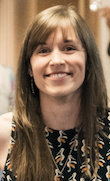
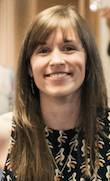
Add Friederike.

diff --git a/_people/friederike.md b/_people/friederike.md
@@ -1,0 +1,11 @@
+---
+first_name: Friederike
+last_name: Schlumm
+img: /assets/img/people/friederike.jpg
+email: first.last@imp.ac.at
+country: Germany
+member_from: April 2018
+member_till: now
+position: Technician
+---
+Friederike joined our lab recently as a technician in a Boehringer Ingelheim collaboration. She obtained her master's degree in neuroscience from the Ruprecht-Karls-University in Heidelberg, Germany (2006-2012). Her thesis focused on nuclear calcium signaling in neurons and its influence on gene expression. Then she moved from cell culture work to organismal research and joined the lab of Alipasha Vaziri at the IMP in Vienna as a PhD student, where she was working on the neuronal dynamics in the zebrafish larval brain (2013-2018). Friederike is an active member of the Vienna skeptics community and a co-organizer of the Austrian science festival "WissensDurst".
